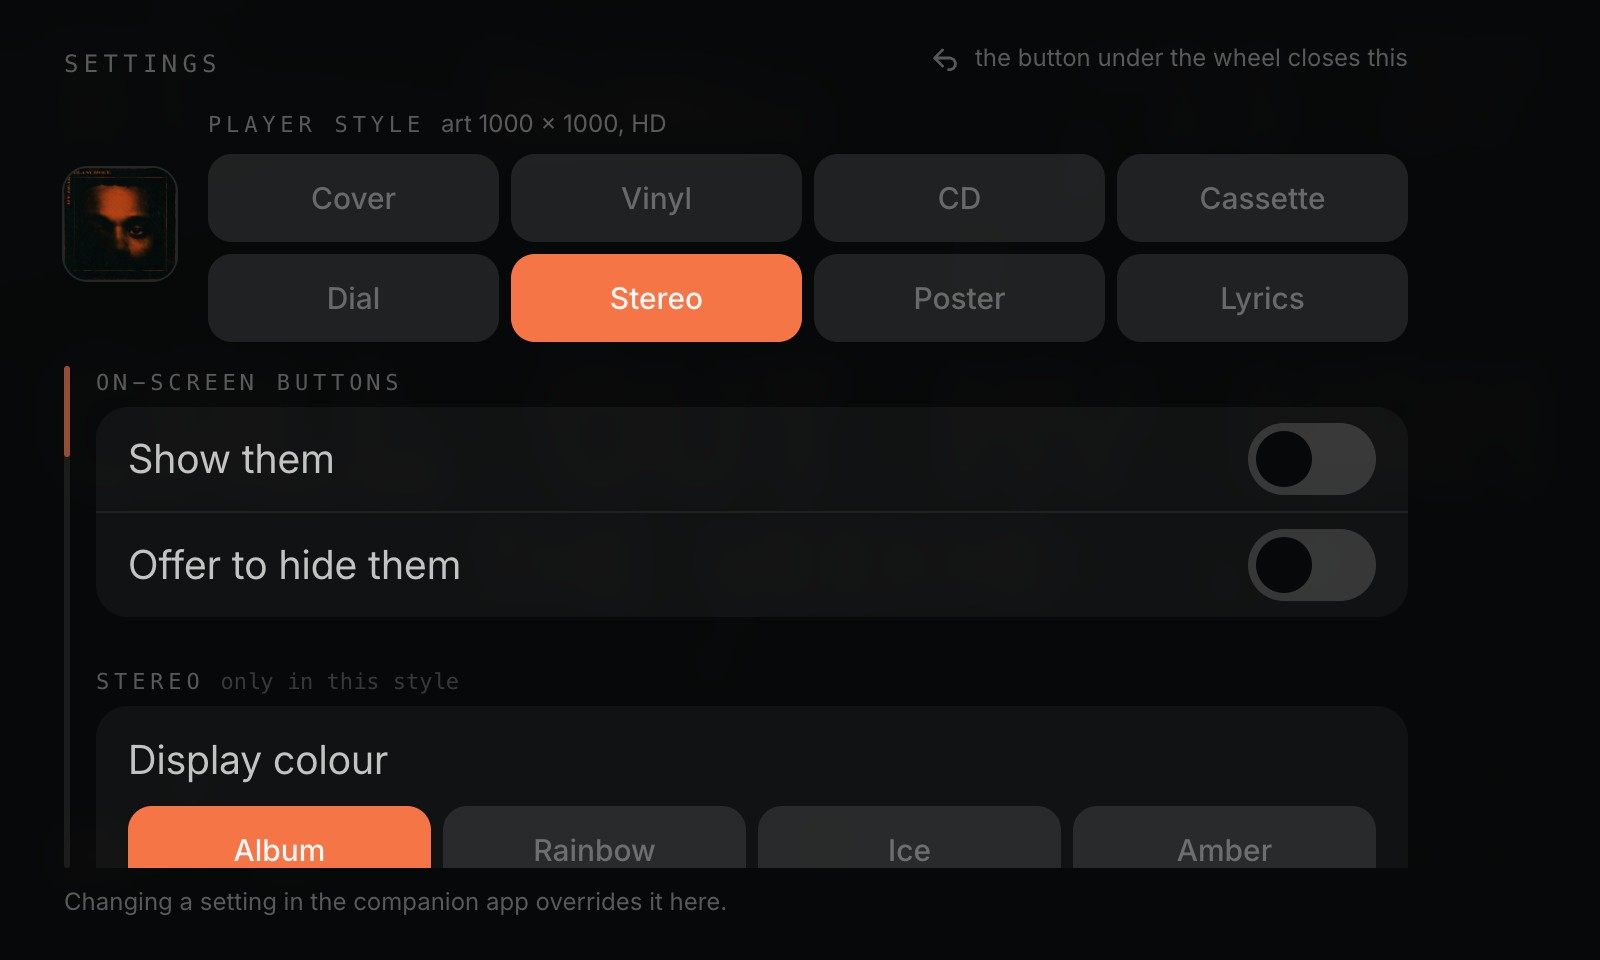
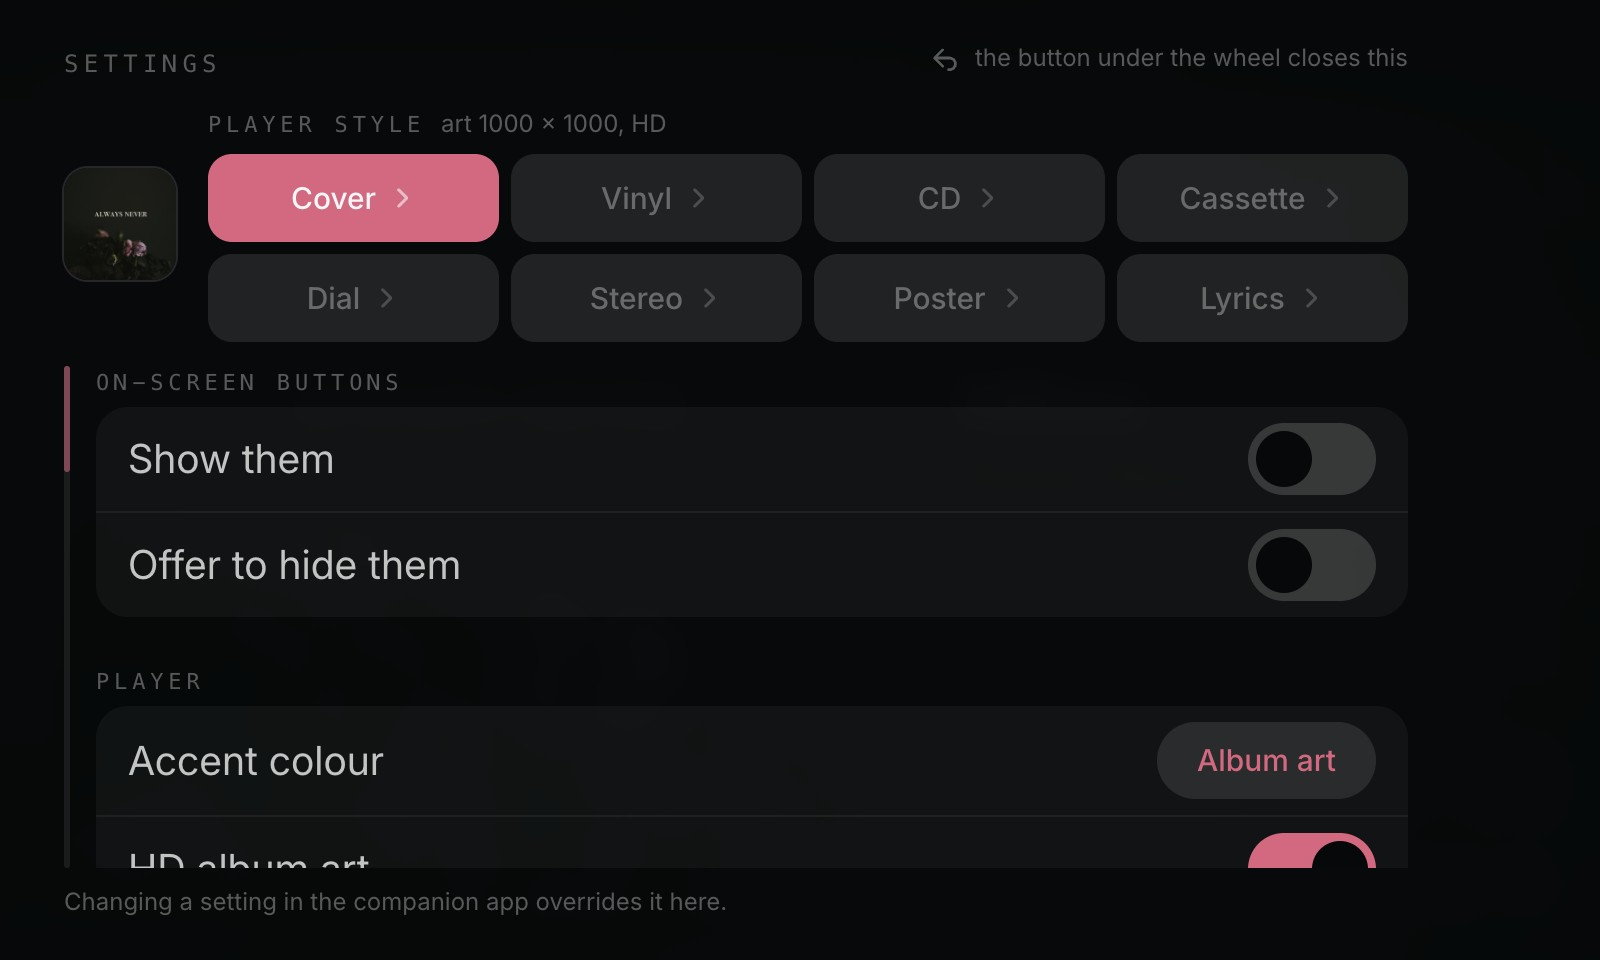
MusicPlayerV1: style tiles open a page of that style's settings
The player style tiles in the settings work like tabs now. Tapping one
switches to that style and opens a page holding only its own settings,
with a chevron on each tile to say it leads somewhere. The page's header
reads All styles with the style's name, and it or the button under the
wheel goes back to the grid; from the grid the button closes the settings
as before, and the settings always reopen on the grid. A style with no
settings of its own says so.

The general settings stay on the first page without the style group in
the middle of them. The page state lives in App so the back key can step
out of a style page instead of closing the panel.

diff --git a/apps/MusicPlayerV1/src/App.tsx b/apps/MusicPlayerV1/src/App.tsx
@@ -64,6 +64,8 @@ export default function App() {
   const { prefs, setPref } = usePrefs(client);
   const wallClock = useClock(client, prefs.clock, prefs.clockSeconds, prefs.clockFormat);
   const [panel, setPanel] = useState(false);
+  // the settings open on the general page; a style's own settings are a page of their own under it
+  const [stylePage, setStylePage] = useState(false);
   const [sheet, setSheet] = useState(false);
   const [hint, setHint] = useState(false);
   const [tip, setTip] = useState(false);
@@ -349,7 +351,11 @@ export default function App() {
       if (e.key === ' ' || e.key === 'Enter') press();
       else if (e.key === 'Escape') {
         if (sheet) setSheet(false);
-        else setPanel(open => !open);
+        else if (panel && stylePage) setStylePage(false);
+        else {
+          setStylePage(false);
+          setPanel(open => !open);
+        }
       }
       else if (e.key === 'ArrowLeft' || e.key === '1') goPrev(true);
       else if (e.key === '2') toggle();
@@ -418,7 +424,7 @@ export default function App() {
       window.removeEventListener('pointerup', onUp);
       window.removeEventListener('pointercancel', onCancel);
     };
-  }, [client, duration, flashHud, live, lyrics, panel, prefs.rotate, prefs.seekSeconds, prefs.theme, prefs.wheel, press, scrub, seek, setPref, sheet, toggle]);
+  }, [client, duration, flashHud, live, lyrics, panel, prefs.rotate, prefs.seekSeconds, prefs.theme, prefs.wheel, press, scrub, seek, setPref, sheet, stylePage, toggle]);
 
   if (!track)
     return (
@@ -816,7 +822,17 @@ export default function App() {
           }}
         />
       )}
-      {panel && <Panel client={client} prefs={prefs} setPref={setPref} accent={accentOn} artUrl={artUrl} />}
+      {panel && (
+        <Panel
+          client={client}
+          prefs={prefs}
+          setPref={setPref}
+          accent={accentOn}
+          artUrl={artUrl}
+          stylePage={stylePage}
+          onStylePage={setStylePage}
+        />
+      )}
     </div>
     </Stage>
   );
@@ -1090,12 +1106,16 @@ function Panel({
   setPref,
   accent,
   artUrl,
+  stylePage,
+  onStylePage,
 }: {
   client: BridgethingClient;
   prefs: Prefs;
   setPref: (key: keyof Prefs, value: string) => void;
   accent: Accent | null;
   artUrl: string | null;
+  stylePage: boolean;
+  onStylePage: (open: boolean) => void;
 }) {
   // the pixel size is what tells you whether the sharper lookup actually landed
   const [artPx, setArtPx] = useState<string | null>(null);
@@ -1111,7 +1131,11 @@ function Panel({
       at: el.scrollTop / (el.scrollHeight - el.clientHeight),
     });
   }, []);
-  useEffect(onScroll, [onScroll, prefs.theme]);
+  useEffect(onScroll, [onScroll, prefs.theme, stylePage]);
+  // each page starts at its top, rather than wherever the other one had been scrolled to
+  useEffect(() => {
+    if (list.current) list.current.scrollTop = 0;
+  }, [stylePage]);
   const tint = accent?.fill ?? '#efefef';
   const ink = accent?.ink ?? '#060809';
   const { state: update, check } = useUpdateCheck(client);
@@ -1209,12 +1233,12 @@ function Panel({
         <span className="font-mono text-hint tracking-[0.22em] text-dim uppercase">Settings</span>
         <span className="flex items-center gap-2 text-hint text-dim">
           <BackGlyph className="h-3.5 w-3.5" />
-          the button under the wheel closes this
+          {stylePage ? 'the button under the wheel goes back' : 'the button under the wheel closes this'}
         </span>
       </div>
 
-      {/* the style picker decides what the rest of the list holds, so it sits above it rather than
-          scrolling away inside it */}
+      {/* the styles are tabs: a tile picks the style and opens its page, and the page's own header
+          is the way back. the grid stays out of the scrolling list so it is always in reach */}
       <div className="mt-3 flex shrink-0 items-center gap-4">
         {artUrl && (
           <img
@@ -1234,14 +1258,32 @@ function Panel({
               </span>
             )}
           </div>
-          <StyleGrid
-            values={ENUMS.theme.values}
-            labels={ENUMS.theme.labels}
-            value={prefs.theme}
-            tint={tint}
-            ink={ink}
-            onPick={next => setPref('theme', next)}
-          />
+          {stylePage ? (
+            <button
+              onClick={() => onStylePage(false)}
+              className="flex h-11 w-full items-center gap-3 rounded-xl bg-white/10 px-4 transition active:scale-[0.98]">
+              <svg viewBox="0 0 24 24" className="h-5 w-5 text-dim" fill="none" stroke="currentColor" strokeWidth="2.4">
+                <path d="M15 5l-7 7 7 7" strokeLinecap="round" strokeLinejoin="round" />
+              </svg>
+              <span className="text-row text-dim">All styles</span>
+              <span className="ml-auto text-row font-semibold" style={{ color: tint }}>
+                {styleName}
+              </span>
+            </button>
+          ) : (
+            <StyleGrid
+              values={ENUMS.theme.values}
+              labels={ENUMS.theme.labels}
+              value={prefs.theme}
+              tint={tint}
+              ink={ink}
+              opens
+              onPick={next => {
+                setPref('theme', next);
+                onStylePage(true);
+              }}
+            />
+          )}
         </div>
       </div>
 
@@ -1250,18 +1292,19 @@ function Panel({
         ref={list}
         onScroll={onScroll}
         className="flex min-h-0 flex-1 flex-col overflow-y-auto overscroll-contain pl-4 [scrollbar-width:none]">
-        {[
-          { title: 'On-screen buttons', rows: BUTTON_ROWS, own: false },
-          { title: styleName, rows: STYLE_ROWS, own: true },
-          ...GROUPS.map(g => ({ ...g, own: false })),
-        ]
+        {stylePage && STYLE_ROWS.every(r => !r.only?.includes(prefs.theme)) && (
+          <p className="px-1 py-6 text-center text-row text-dim">{styleName} has no settings of its own.</p>
+        )}
+        {(stylePage
+          ? [{ title: `${styleName} settings`, rows: STYLE_ROWS, own: true }]
+          : [{ title: 'On-screen buttons', rows: BUTTON_ROWS, own: false }, ...GROUPS.map(g => ({ ...g, own: false }))]
+        )
           .map(group => ({ ...group, rows: group.rows.filter(r => !r.only || r.only.includes(prefs.theme)) }))
           .filter(group => group.rows.length > 0)
           .map((group, gi) => (
             <section key={group.title} className={gi === 0 ? '' : 'mt-6'}>
               <h2 className="mb-1 flex items-baseline gap-2 font-mono text-eyebrow tracking-[0.22em] text-dim uppercase">
                 {group.title}
-                {group.own && <span className="tracking-normal normal-case opacity-60">only in this style</span>}
               </h2>
               <div className="rounded-2xl bg-white/4">
                 {group.rows.map((row, ri) => {
@@ -1294,6 +1337,7 @@ function Panel({
             </section>
           ))}
 
+        {!stylePage && (
         <section className="mt-6 mb-1">
           <h2 className="mb-1 font-mono text-eyebrow tracking-[0.22em] text-dim uppercase">About</h2>
           <div className="flex items-center justify-between gap-5 rounded-2xl bg-white/4 px-4 py-2">
@@ -1310,6 +1354,7 @@ function Panel({
             </button>
           </div>
         </section>
+        )}
       </div>
 
       {scroll.shown < 1 && (
@@ -1410,6 +1455,7 @@ function StyleGrid({
   value,
   tint,
   ink,
+  opens,
   onPick,
 }: {
   values: string[];
@@ -1417,6 +1463,8 @@ function StyleGrid({
   value: string;
   tint: string;
   ink: string;
+  // a tile that leads to a page of its own says so with a chevron
+  opens?: boolean;
   onPick: (next: string) => void;
 }) {
   return (
@@ -1429,10 +1477,15 @@ function StyleGrid({
             aria-pressed={on}
             onClick={() => onPick(option)}
             style={on ? { backgroundColor: tint, color: ink } : undefined}
-            className={`h-11 rounded-xl text-row font-medium transition duration-200 active:scale-95 ${
+            className={`flex h-11 items-center justify-center gap-1.5 rounded-xl text-row font-medium transition duration-200 active:scale-95 ${
               on ? '' : 'bg-white/10 text-dim'
             }`}>
             {labels[i]}
+            {opens && (
+              <svg viewBox="0 0 24 24" className="h-3.5 w-3.5 opacity-60" fill="none" stroke="currentColor" strokeWidth="2.6">
+                <path d="M9 5l7 7-7 7" strokeLinecap="round" strokeLinejoin="round" />
+              </svg>
+            )}
           </button>
         );
       })}

diff --git a/README.md b/README.md
@@ -359,12 +359,13 @@ one it lies on in the layout.
 
 ![Settings](apps/MusicPlayerV1/screenshots/06-settings.jpg)
 
-Press the button under the wheel to open them on the device. The style picker sits at the top,
-outside the list, as a grid of eight tiles, because it decides what the rest of the list holds.
-Everything that only applies to the style you are in is gathered under that style's name. Poster
-has no such group: it has no settings of its own. A setting with more choices than fit beside its
-name, like the Stereo display colour, lays them out as tiles under it. A rail down the left edge
-shows where you are in the list.
+Press the button under the wheel to open them on the device. The styles sit at the top as a grid of
+eight tiles that work like tabs: tapping one switches to that style and opens a page of its own
+settings, such as the record colour for Vinyl or the display colour for Stereo. **All styles** at
+the top of that page, or the button under the wheel, goes back to the grid, and the button closes
+the settings from there. Poster's page says it has no settings of its own. The general settings
+below the grid apply to every style. A setting with more choices than fit beside its name lays
+them out as tiles under it. A rail down the left edge shows where you are in the list.
 
 The first group in the list is **On-screen buttons**: whether the previous, play and next buttons are
 drawn at all, and whether the player offers to hide them. The companion app lists the same two

diff --git a/apps/MusicPlayerV1/CHANGELOG.md b/apps/MusicPlayerV1/CHANGELOG.md
@@ -11,9 +11,10 @@ and a smaller line under it shows the artist, album or time, stepped by tapping 
 Previous, play and next are drawn in the same dots, the volume reads out on the display, and a
 frame along the bottom fills as the song plays. The floating notes turn to pixel art over it.
 
-The player style in the settings is a grid of tiles now, four across, rather than a row of pills
-that eight styles no longer fit, and a setting with more than six choices lays them out the same
-way under its name.
+The player styles in the settings are a grid of tiles now, four across, and they work like tabs:
+tapping one switches to it and opens a page with that style's own settings, and **All styles** or
+the button under the wheel goes back. The general settings stay on the first page. A setting with
+more than six choices lays them out as tiles under its name.
 
 ## 0.35.2
 
